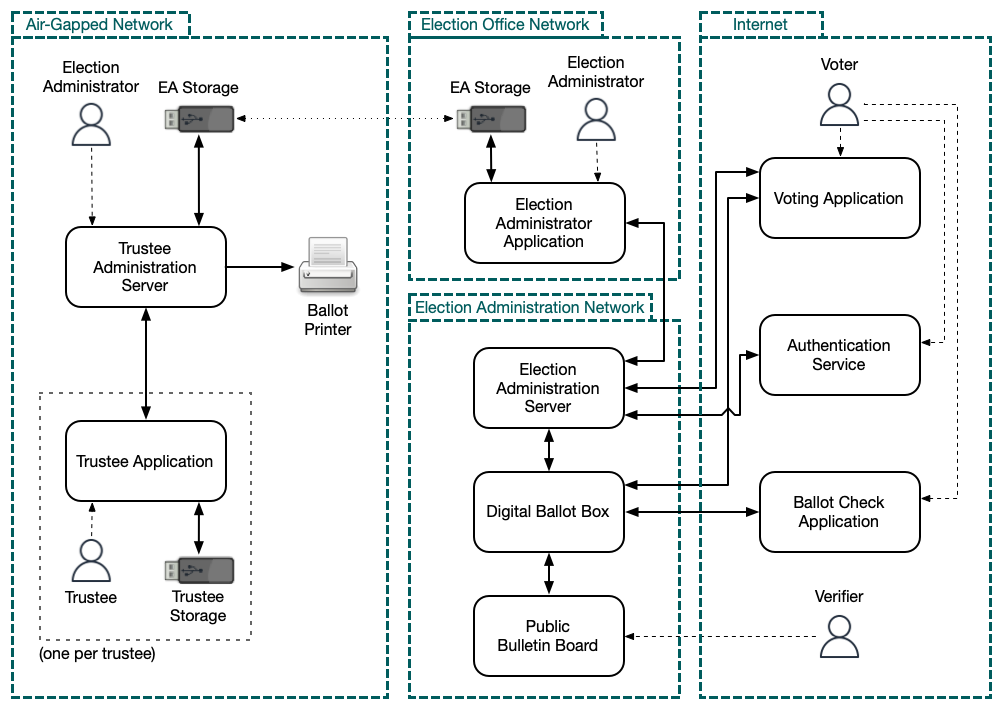
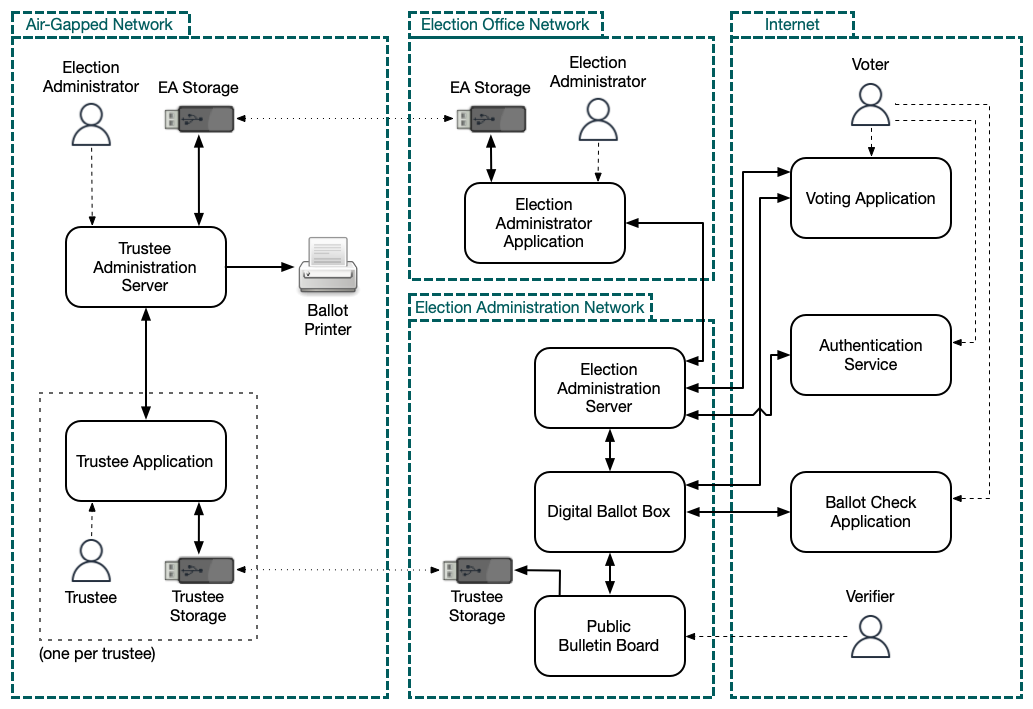
fix: clarify that trustee public keys are broadly, publicly known
This enables public verification of purportedly trustee-generated
messages, most critically the election public key.

diff --git a/docs/protocol/specs/election-key-gen-spec.md b/docs/protocol/specs/election-key-gen-spec.md
@@ -2,6 +2,8 @@
 
 This subprotocol defines the interactions between the trustees and the trustee administration server (TAS) to accomplish the distributed generation of a public key with each trustee holding a private key share. When ballots are later encrypted they are encrypted using this election public key.
 
+We assume, for this and all trustee subprotocols, that trustee identities and public keys are widely known to third parties and that trustee private keys cannot be forged. The authenticity of any purportedly-trustee-generated message posted to the public bulletin board after trustee subprotocol completion is therefore publicly verifiable.
+
 ## Trustee Protocol Communication
 
 In this trustee protocol (and all subsequent ones) the TAS performs minimal computation, and exists primarily to provide a "trustee board" on which the trustees can post protocol messages. The trustee board is similar to a public bulletin board, but the messages are not stored in a chain-like structure; instead, there is a fixed set of "message slots" (or "message identifiers"), each of which is used at a specific point in the protocol, and each of which (in a successful run of the protocol) can only be used once. The messages on the trustee board are stored in chronological order based on when the TAS receives them. Each trustee `t` maintains its own local copy of the trustee board by asking the TAS for all the messages later than the last message `t` has seen, whenever `t` has no messages to process in its current state. In this way every local copy of the trustee board necessarily _follows_ the board stored in the TAS; the TAS board is a sequence of messages `S`, and every local trustee board is a monotonically nondecreasing prefix of `S`.
@@ -125,7 +127,9 @@ channel properties
 
 ## Termination
 
-The subprotocol successfully terminates when one **Election Public Key Message** has posted by each trustee and all those messages contain identical election public keys. At that point, the trustees have all agreed upon the election public key, and the trustee administration server can add it to the election configuration that gets posted to the public bulletin board.
+The subprotocol successfully terminates when one **Election Public Key Message** has posted by each trustee and all those messages contain identical election public keys. At that point, the trustees have all agreed upon the election public key, and the trustee administration server can add it, and the corresponding trustee signatures, to the election configuration that gets posted to the public bulletin board.
+
+After this subprotocol is complete and the trustees leave the air gap, they (and any public observers who wish to) perform an additional check of the public bulletin board to ensure that the election public key they agreed upon and signed is the election public key that was posted to the board. This check occurs out of band. If trustee signatures on the election public key fail to verify, or it is otherwise detected that the election public key posted to the board does not match the election public key the trustees agreed upon, the election cannot continue.
 
 ## Process Diagrams
 

diff --git a/CHANGELOG.md b/CHANGELOG.md
@@ -2,6 +2,10 @@
 
 This change log lists changes to VoteSecure with each released version. It is not comprehensive (i.e., it does not include non-material changes like fixes for typographical errors, updates to the continuous integration scripts, etc.).
 
+## [Version 1.3](https://github.com/FreeAndFair/VoteSecure/releases/tag/v1_3) - 15 May 2026
+
+- added documentation (in the CONOPS and relevant protocol specifications) to clarify that trustee public keys are expected to be broadly publicly known so that trustee signatures are publicly verifiable, and that trustee signatures for the election public key should be posted to the public bulletin board
+
 ## [Version 1.2](https://github.com/FreeAndFair/VoteSecure/releases/tag/v1_2) - 5 May 2026
 
 - updated Rust `rand` package to 0.10.1 to address [RUSTSEC-2026-0097](https://rustsec.org/advisories/RUSTSEC-2026-0097)

diff --git a/docs/conops/conops.md b/docs/conops/conops.md
@@ -68,7 +68,7 @@ The main operational functions of the system vary according to the configuration
 
 ### Normal Operation
 
-*Initialize an Election.* The election official uses the election administrator application and connects to the election administration server to create a new election, set the election configuration for this election, set the affidavit options, load a ballot definition file into the system, and set the opening/closing times for the election. The election official uses the election administrator application and connects to the authentication service through the election administration server to set the collection of authorized voters. The trustees use the trustee application and connect to the trustee administration server to jointly create key shares and sign the election public key. The election official uses the election administrator application and connects to the election administration server to open the election.
+*Initialize an Election.* The election official uses the election administrator application and connects to the election administration server to create a new election, set the election configuration for this election, set the affidavit options, load a ballot definition file into the system, and set the opening/closing times for the election. The election official uses the election administrator application and connects to the authentication service through the election administration server to set the collection of authorized voters. The trustees use the trustee application and connect to the trustee administration server to jointly create key shares and sign the election public key. The election official uses the election administrator application and connects to the election administration server to open the election. The trustees (and other members of the public who know the trustee public keys) check the public bulletin board to ensure that the election public key posted there has been signed by all trustees.
 
 *Cast an Individual Ballot.*  The voter uses the voting application and connects to the authentication service which performs voter lookup and authenticates the voter, providing the voter with a pseudonym. The voter uses the voting application and connects to the election administration server which determines the correct ballot and presents it to the voter along with the affidavit options for that ballot. The voter uses the voting application to locally record ballot selections and complete the affidavit. The voter uses the voting application, which connects to the digital ballot box to submit the ballot and generate the ballot tracker. The voter uses the ballot check application, which creates a fresh key pair for the ballot check session (the "ballot check public key" and "ballot check private key"), then connects to the public bulletin board to retrieve ballot information and present the ballot pseudonym to the user. The voter sees that the pseudonym matches the one they were provided by the voting application and instructs the ballot check application to retrieve ballot decryption information. The ballot check application retrieves that information by communicating with the voting application (mediated by the digital ballot box) using the ballot tracker, and presents the ballot check public key (as a human readable and comparable code) to the voter. The voter uses the voting application to view the ballot check public key and compare with the ballot check public key seen in the ballot check application. The voter sees that the keys match and uses the voting application, which sends the ballot randomizers to the ballot check application. The ballot check application uses these to decrypt the ballot and display the voter's choices. The voter sees that the choices on the decrypted ballot match those the voter made, and uses the voting application, which connects to the digital ballot box to cast the ballot. The voter uses the ballot check application to check that the ballot was correctly cast on the public bulletin board.
 

diff --git a/docs/protocol/specs/setup-spec.md b/docs/protocol/specs/setup-spec.md
@@ -2,6 +2,8 @@
 
 This subprotocol defines the interactions among the trustees and the trustee administration server to initialize the voting protocol. The purpose of this subprotocol is for all trustees to endorse an official configuration of the protocol for a particular election. This configuration includes the list of trustees and their associated public keys thereby establishing PKI for the Trustees.
 
+We assume, for this and all trustee subprotocols, that trustee identities and public keys are widely known to third parties and that trustee private keys cannot be forged. The authenticity of any purportedly-trustee-generated message posted to the public bulletin board after trustee subprotocol completion is therefore publicly verifiable.
+
 ## Phase 1: Configuration Distribution
 
 In this phase the configuration for the election is distributed to each trustee for their inspection.

diff --git a/docs/protocol/specs/trustee-decryption-spec.md b/docs/protocol/specs/trustee-decryption-spec.md
@@ -2,6 +2,8 @@
 
 This subprotocol specifies the interactions between the trustees and the trustee administration server (TAS) that transform the (already mixed) list of ballot ciphertexts into a list of plaintexts to be tallied.
 
+We assume, for this and all trustee subprotocols, that trustee identities and public keys are widely known to third parties and that trustee private keys cannot be forged. The authenticity of any purportedly-trustee-generated message posted to the public bulletin board after trustee subprotocol completion is therefore publicly verifiable.
+
 ## Trustee Protocol Communication
 
 As with the election key generation and trustee mixing protocols, the TAS performs minimal computation in this protocol. It performs three main functions: providing a "trustee board" on which the trustees can post protocol messages; validating the final round of messages posted by the trustees at the end of the subprotocol before printing them or writing them to a storage device for later printing by the election administrator; and (if necessary) posting an initial message to the trustee board containing the set of encrypted ballots that needs to be decrypted.

diff --git a/docs/protocol/specs/trustee-mixing-spec.md b/docs/protocol/specs/trustee-mixing-spec.md
@@ -2,6 +2,8 @@
 
 This subprotocol defines the interactions between the trustees and the trustee administration server (TAS) to accomplish the verified mixing of ballot ciphertexts through the use of a distributed re-encryption mixnet.
 
+We assume, for this and all trustee subprotocols, that trustee identities and public keys are widely known to third parties and that trustee private keys cannot be forged. The authenticity of any purportedly-trustee-generated message posted to the public bulletin board after trustee subprotocol completion is therefore publicly verifiable.
+
 ## Trustee Verification of Public Bulletin Board
 
 Before carrying out this subprotocol, the trustees must verify that the state of the public bulletin board (PBB) for the election is valid and snapshot that state in order to bring it into the air gap. The trustees will use the PBB snapshot to ensure that the set of cryptograms to be mixed is valid before the mixing protocol begins.